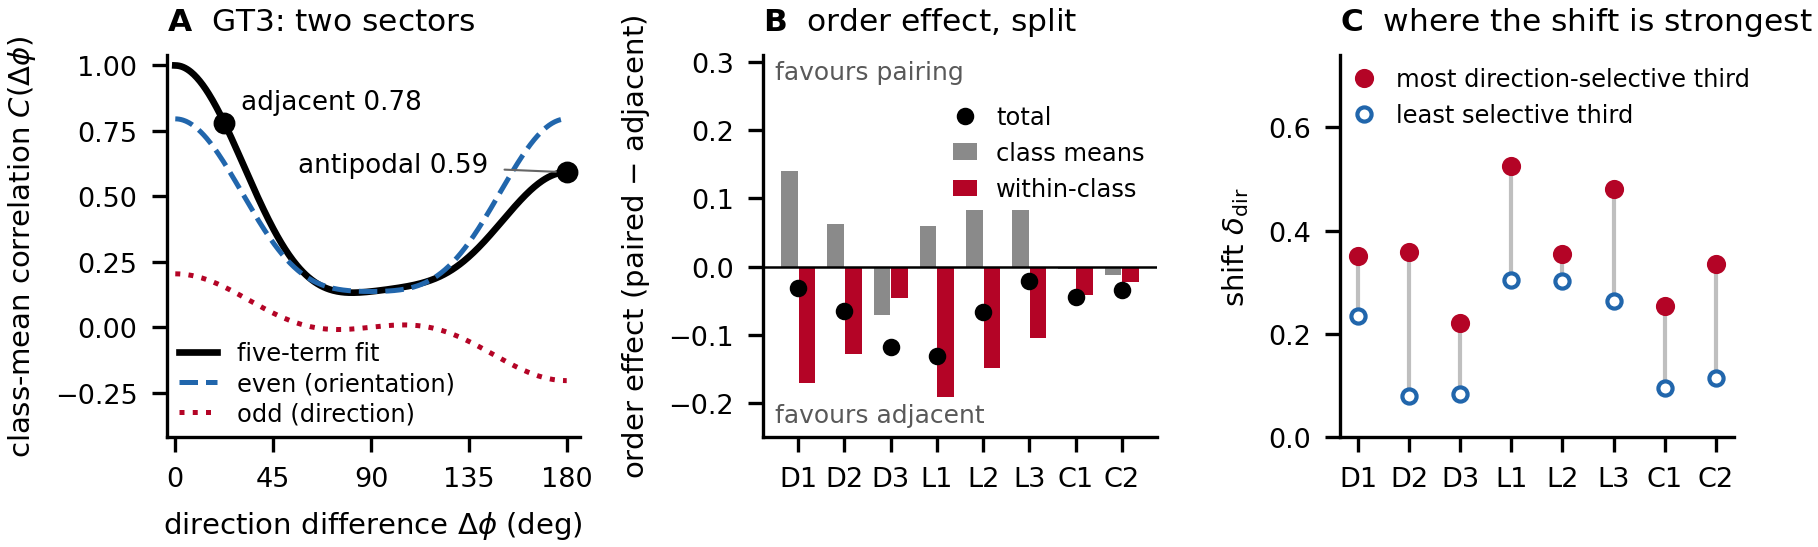
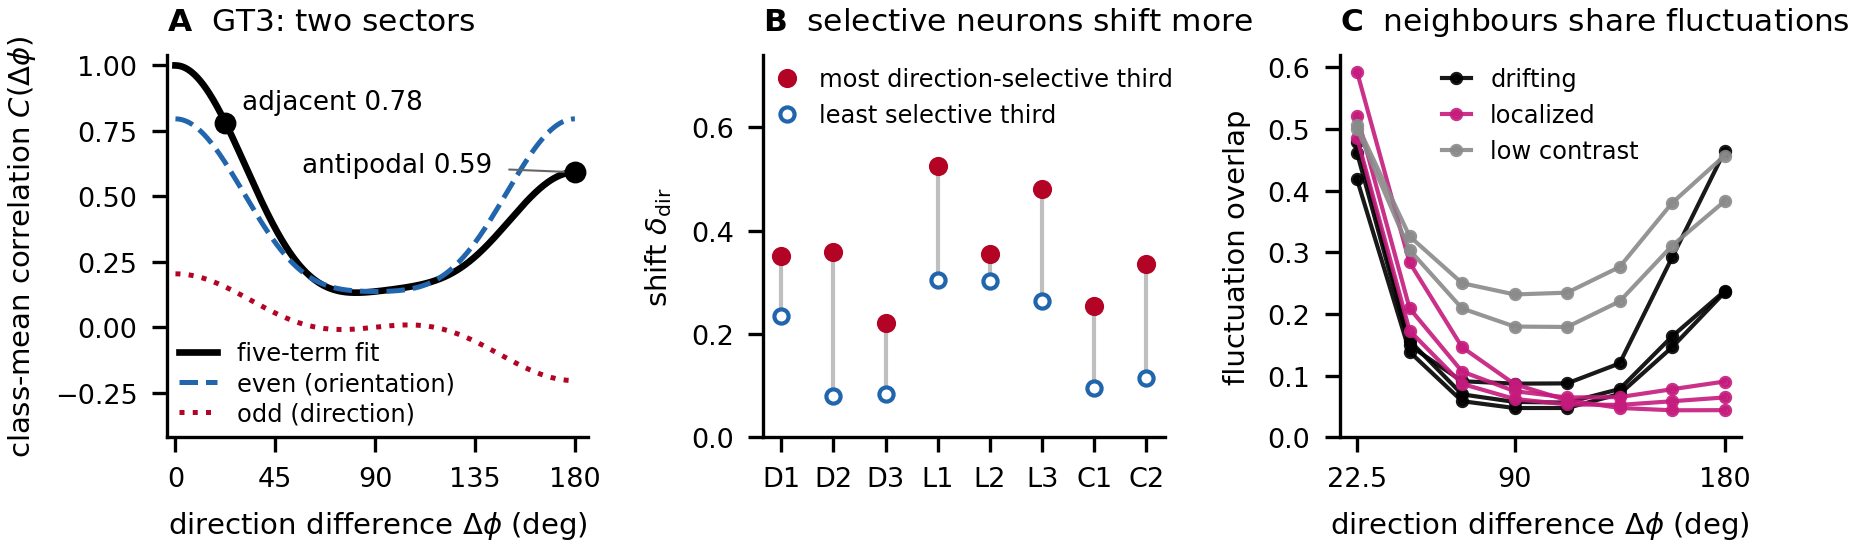
Figures 2 and 3 of the camera-ready: the fluctuation overlap of two classes against their separation, and the two measured numbers behind the shift with the order effect

diff --git a/scripts_canonical/make_fig_cr_multipole.py b/scripts_canonical/make_fig_cr_multipole.py
@@ -1,15 +1,16 @@
 """Camera-ready (NeurReps 2026) Figures 2 and 3: the two-panel multipole/order figure and the Allen panel.
 The arXiv-era make_fig3_4_allen_multipole.py draws the ordering contrast alone; this one keeps both panels.
-Inputs: data_canonical/multipole_harmonics_8dir.json, run72_paper_designs_split.json (order-effect split),
+Inputs: data_canonical/multipole_harmonics_8dir.json, cr_failure_interrogation.json (fluctuation overlaps),
 run59_shift_by_direction_selectivity.json (DSI thirds),
 allen_expansion_all_sessions.json. Out: ../figures_canonical/ (+ arxiv/figures when present).
 
 Fig 3 (fig_allen_expansion.png): per-population direction-aligned shifts across
 32 Allen Neuropixels sessions, by visual area, aligned vs shuffled in separate
 sub-columns with annotated means and counts.
-Fig 2 (fig_multipole_two_panel.png, three panels): GT3's class-mean correlation and its two sectors;
-the order effect split into its class-mean and within-class parts; the shift of the most and least
-direction-selective thirds per recording.
+Fig 2 (fig_multipole_two_panel.png, three panels): GT3's class-mean correlation and its two sectors; the shift of
+the most and least direction-selective thirds per recording; the shape overlap of two classes' fluctuations against
+their separation (cr_failure_interrogation.json: neighbours share most, antipodes recover only off the localized
+recordings).
 
 Outputs to figures/theta_eft/.
 """
@@ -93,11 +94,10 @@ mh = json.load(open(DATA / "multipole_harmonics_8dir.json"))
 gt3 = next(r for r in mh["rows"] if "drifting_GT3" in r["name"])["coef"]
 a0, b, c, b4, c3 = gt3["a"], gt3["b2"], gt3["c1"], gt3["b4"], gt3["c3"]
 
-split = json.load(open(DATA / "run72_paper_designs_split.json"))["rows"]      # order-effect split (Table 8)
 tags = ["D1", "D2", "D3", "L1", "L2", "L3", "C1", "C2"]
-o_tot = [split[t]["all"]["order_effect"] for t in tags]
-o_mean = [split[t]["all"]["order_probe"] for t in tags]
-o_with = [split[t]["all"]["order_noise"] for t in tags]
+fi = json.load(open(DATA / "cr_failure_interrogation.json"))["rows"]          # fluctuation shape overlaps, 16 classes
+assert [r["name"].split("_")[1] for r in fi] == ["drifting"] * 3 + ["local"] * 3 + ["low"] * 2
+kn = [r["Kn_profile"] for r in fi]
 ds = json.load(open(DATA / "run59_shift_by_direction_selectivity.json"))["verdict"]   # registered DSI thirds
 assert ds["tags"] == tags
 
@@ -134,31 +134,39 @@ ax1.set_ylabel(r"class-mean correlation $C(\Delta\phi)$")
 ax1.set_title(r"$\mathbf{A}$  GT3: two sectors", loc="left")
 ax1.spines[["top", "right"]].set_visible(False)
 
+dsv, nds = ds["delta_DS"], ds["delta_nonDS"]
 x = np.arange(len(tags))
-ax2.bar(x - 0.19, o_mean, width=0.36, color=GRAY, label="class means")
-ax2.bar(x + 0.19, o_with, width=0.36, color=RED, label="within-class")
-ax2.plot(x, o_tot, "o", color="k", ms=3.2, label="total", zorder=4)
-ax2.axhline(0, color="k", lw=0.6)
-ax2.text(-0.5, 0.285, "favours pairing", fontsize=6.0, color="0.35", va="center")
-ax2.text(-0.5, -0.218, "favours adjacent", fontsize=6.0, color="0.35", va="center")
-ax2.set_xticks(x); ax2.set_xticklabels(tags); ax2.set_ylim(-0.25, 0.31)
-ax2.set_ylabel("order effect (paired $-$ adjacent)")
-ax2.set_title(r"$\mathbf{B}$  order effect, split", loc="left")
-ax2.legend(frameon=False, loc="upper right", fontsize=5.8, handlelength=1.0, borderaxespad=0.1, bbox_to_anchor=(1.0, 0.9))
+for k in x:
+    ax2.plot([k, k], [nds[k], dsv[k]], color="0.75", lw=1.0, zorder=1)
+ax2.plot(x, dsv, "o", color=RED, ms=3.6, label="most direction-selective third", zorder=3)
+ax2.plot(x, nds, "o", mfc="white", mec=BLUE, mew=1.0, ms=3.4, label="least selective third", zorder=3)
+ax2.set_xticks(x); ax2.set_xticklabels(tags); ax2.set_ylim(0, 0.74)
+ax2.set_ylabel(r"shift $\delta_{\rm dir}$")
+ax2.set_title(r"$\mathbf{B}$  selective neurons shift more", loc="left")
+ax2.legend(frameon=False, loc="upper left", fontsize=5.8, handlelength=1.0, borderaxespad=0.1)
 ax2.spines[["top", "right"]].set_visible(False)
 
-dsv, nds = ds["delta_DS"], ds["delta_nonDS"]
-for k in x:
-    ax3.plot([k, k], [nds[k], dsv[k]], color="0.75", lw=1.0, zorder=1)
-ax3.plot(x, dsv, "o", color=RED, ms=3.6, label="most direction-selective third", zorder=3)
-ax3.plot(x, nds, "o", mfc="white", mec=BLUE, mew=1.0, ms=3.4, label="least selective third", zorder=3)
-ax3.set_xticks(x); ax3.set_xticklabels(tags); ax3.set_ylim(0, 0.74)
-ax3.set_ylabel(r"shift $\delta_{\rm dir}$")
-ax3.set_title(r"$\mathbf{C}$  where the shift is strongest", loc="left")
-ax3.legend(frameon=False, loc="upper left", fontsize=5.8, handlelength=1.0, borderaxespad=0.1)
+# C: shape overlap of two classes' fluctuations (K_cd / sqrt(K_cc K_dd)) against their separation, sixteen classes
+sep = 22.5 * np.arange(9)
+COL = {"D": "k", "L": MAGENTA, "C": GRAY}
+NAME = {"D": "drifting", "L": "localized", "C": "low contrast"}
+seen = set()
+for t, prof in zip(tags, kn):
+    g = t[0]
+    ax3.plot(sep[1:], prof[1:], "-o", color=COL[g], lw=1.0, ms=2.2, alpha=0.9,
+             label=NAME[g] if g not in seen else None)
+    seen.add(g)
+ax3.set_xlim(15, 187); ax3.set_xticks([22.5, 90, 180]); ax3.set_xticklabels(["22.5", "90", "180"])
+ax3.set_ylim(0, 0.62)
+ax3.set_xlabel(r"direction difference $\Delta\phi$ (deg)")
+ax3.set_ylabel("fluctuation overlap")
+ax3.set_title(r"$\mathbf{C}$  neighbours share fluctuations", loc="left")
+ax3.legend(frameon=False, loc="upper center", fontsize=5.8, handlelength=1.2, borderaxespad=0.1)
 ax3.spines[["top", "right"]].set_visible(False)
-fig.tight_layout(w_pad=0.6)
+print("CHECK Kn(22.5) range %.2f-%.2f; Kn(180) localized %.2f-%.2f, drifting %.2f-%.2f, low contrast %.2f-%.2f" % (
+    min(p[1] for p in kn), max(p[1] for p in kn), min(p[8] for p in kn[3:6]), max(p[8] for p in kn[3:6]),
+    min(p[8] for p in kn[:3]), max(p[8] for p in kn[:3]), min(p[8] for p in kn[6:]), max(p[8] for p in kn[6:])))
+fig.tight_layout(w_pad=1.1)
 save(fig, "fig_multipole_two_panel.png", bbox_inches="tight", pad_inches=0.02)  # title of C inside the canvas, no blank bands
 plt.close(fig)
-print("fig_multipole_two_panel.png written; class-mean order part > 0:", sum(v > 0.01 for v in o_mean),
-      "within-class < 0:", sum(v < 0 for v in o_with), "DS > nonDS:", sum(a > b for a, b in zip(dsv, nds)))
+print("fig_multipole_two_panel.png written; DS > nonDS:", sum(a > b for a, b in zip(dsv, nds)))

diff --git a/scripts_canonical/make_fig_c6_laws.py b/scripts_canonical/make_fig_c6_laws.py
@@ -1,0 +1,56 @@
+"""Camera-ready Figure 3: the two measured numbers behind the shift, and the order effect's fluctuation part.
+(A) within-class part of the direction shift (Table 9) against the mean-field growth ln[8/(1+7 sigma)]/ln 8, sigma = the
+    split-half overlap of two classes' fluctuations relative to a class's own (cr_overlap_mining.json, a.raw.sigma);
+(B) class-mean part (Table 9) against the class means' share of the variance Tr B / Tr W (cr_overlap_mining.json);
+(C) within-class order effect averaged over sixteen origins (cr_order_effect_origins.json) against
+    dK = Kn(22.5) - Kn(180), adjacent-minus-antipodal fluctuation overlap (cr_failure_interrogation.json).
+Table 9 values: cr_order_and_withinbin_controls.json "orig" (the run Table 9 prints). CHECK lines assert printed numbers.
+Out: ../figures_canonical/fig_c6_laws.png (+ camera-ready figures/)."""
+import json
+from pathlib import Path
+import numpy as np
+from scipy import stats
+import matplotlib
+matplotlib.use("Agg")
+import matplotlib.pyplot as plt
+
+HERE = Path(__file__).resolve().parent
+DATA = HERE.parent / "data_canonical"
+OUT = HERE.parent / "figures_canonical"
+CR = HERE.parent.parent / "neurreps_camera_ready" / "figures"
+TAGS = ["D1", "D2", "D3", "L1", "L2", "L3", "C1", "C2"]
+COL = {"D": "k", "L": "#c51b7d", "C": "#8a8a8a"}
+
+t9 = [r["orig"] for r in sorted(json.load(open(DATA / "cr_order_and_withinbin_controls.json"))["rows"], key=lambda r: r["name"])]
+om = sorted(json.load(open(DATA / "cr_overlap_mining.json"))["rows"], key=lambda r: r["name"])
+fi = sorted(json.load(open(DATA / "cr_failure_interrogation.json"))["rows"], key=lambda r: r["name"])
+oo = sorted(json.load(open(DATA / "cr_order_effect_origins.json"))["rows"], key=lambda r: r["name"])
+within = np.array([r["within"] for r in t9]); means = np.array([r["class_means"] for r in t9])
+sigma = np.array([r["a"]["raw"]["sigma"] for r in om]); bw = np.array([r["a"]["trB_over_trW"] for r in om])
+pred = np.log(8 / (1 + 7 * sigma)) / np.log(8)
+dK = np.array([r["dK"] for r in fi]); oew = np.array([np.mean([o["within"] for o in r["origins"]]) for r in oo])
+r_a, r_b, r_c = stats.pearsonr(pred, within)[0], stats.pearsonr(bw, means)[0], stats.pearsonr(dK, oew)[0]
+print(f"CHECK within vs mean field r = {r_a:.2f} (paper 0.92), MAE {np.abs(pred - within).mean():.3f} (paper 0.054)")
+print(f"CHECK class-mean part vs Tr B/Tr W r = {r_b:.2f} (paper -0.91); B/W range {bw.min():.2f}-{bw.max():.2f} (paper 0.07-0.28)")
+print(f"CHECK order fluctuation part vs dK r = {r_c:.3f} (paper -0.997)")
+assert round(r_a, 2) == 0.92 and round(r_b, 2) == -0.91 and round(r_c, 3) == -0.997
+
+plt.rcParams.update({"font.size": 7, "axes.titlesize": 7.5, "axes.labelsize": 7, "xtick.labelsize": 6.5, "ytick.labelsize": 6.5})
+fig, axs = plt.subplots(1, 3, figsize=(6.0, 2.0))
+panels = [(pred, within, "mean field $\\ln[8/(1+7\\sigma)]/\\ln 8$", "within-class part", f"$\\mathbf{{A}}$  one overlap, $r = {r_a:.2f}$"),
+          (bw, means, "class means' share Tr$\\,B$/Tr$\\,W$", "class-mean part", f"$\\mathbf{{B}}$  class means, $r = {r_b:.2f}$"),
+          (dK, oew, "adjacent $-$ antipodal overlap", "order effect (fluctuations)", f"$\\mathbf{{C}}$  order, $r = {r_c:.3f}$")]
+for ax, (x, y, xl, yl, ti) in zip(axs, panels):
+    for t, xi, yi in zip(TAGS, x, y):
+        ax.plot(xi, yi, "o", color=COL[t[0]], ms=3.8)
+        ax.annotate(t, (xi, yi), xytext=(3, 2), textcoords="offset points", fontsize=5.8, color=COL[t[0]])
+    ax.set_xlabel(xl); ax.set_ylabel(yl); ax.set_title(ti, loc="left")
+    ax.spines[["top", "right"]].set_visible(False)
+lo, hi = 0.2, 0.72
+axs[0].plot([lo, hi], [lo, hi], color="0.6", lw=0.7, ls="--"); axs[0].text(0.62, 0.66, "equality", fontsize=5.8, color="0.45", rotation=34)
+axs[2].axhline(0, color="0.6", lw=0.6)
+fig.tight_layout(w_pad=1.0)
+for d in (OUT, CR):
+    if d.exists():
+        fig.savefig(d / "fig_c6_laws.png", dpi=300, bbox_inches="tight", pad_inches=0.02)
+print("wrote fig_c6_laws.png")
